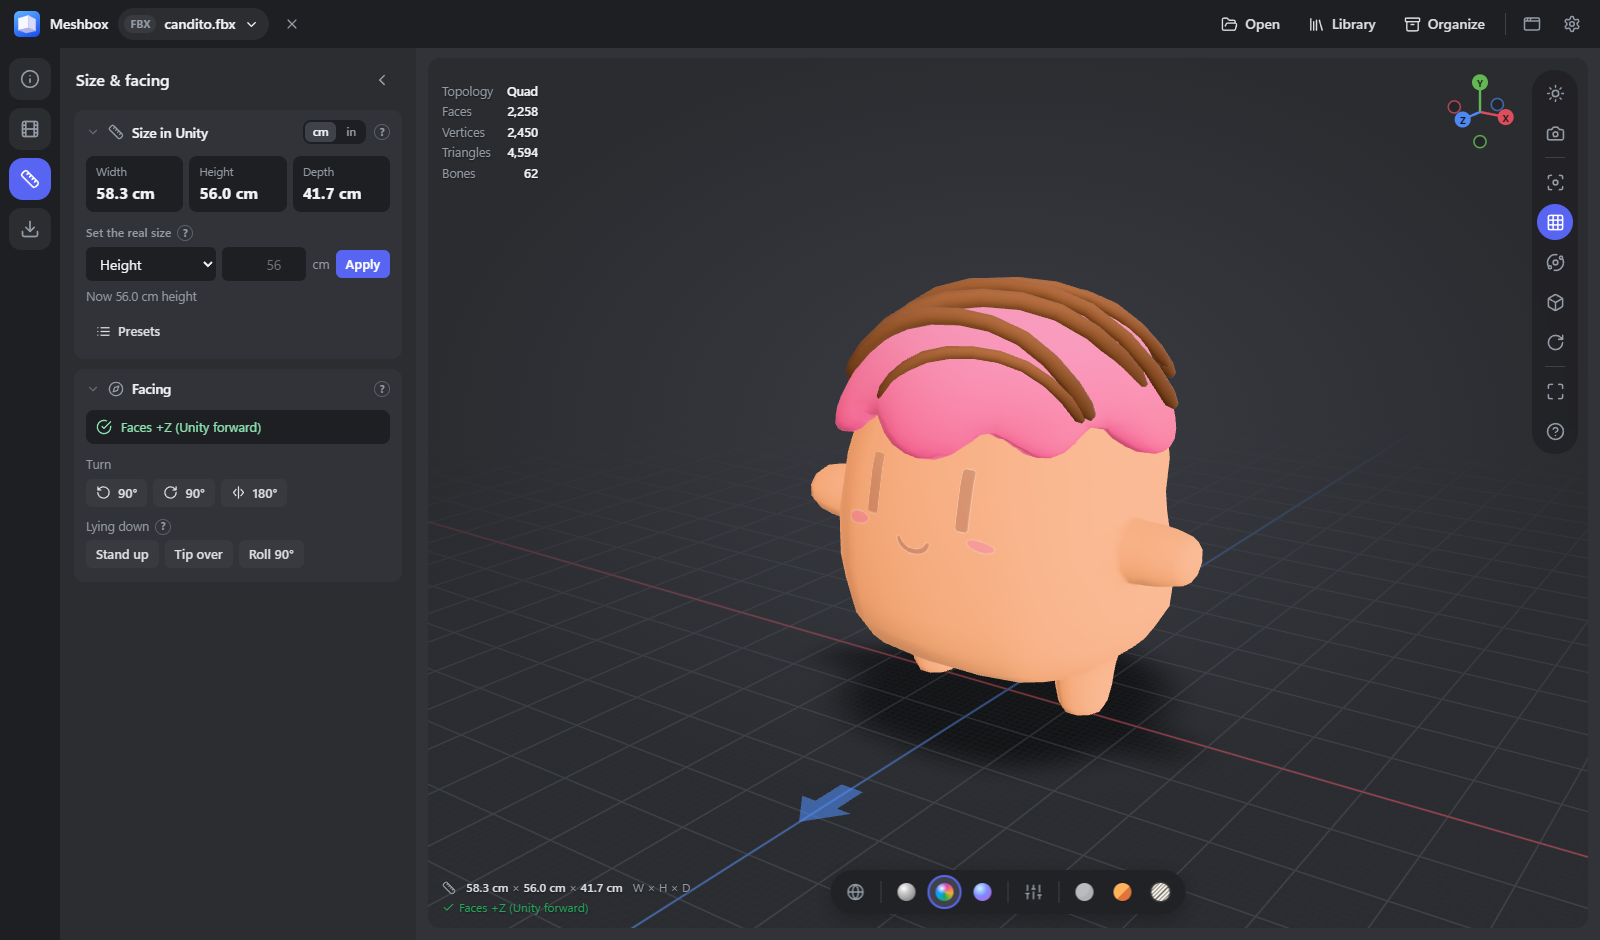
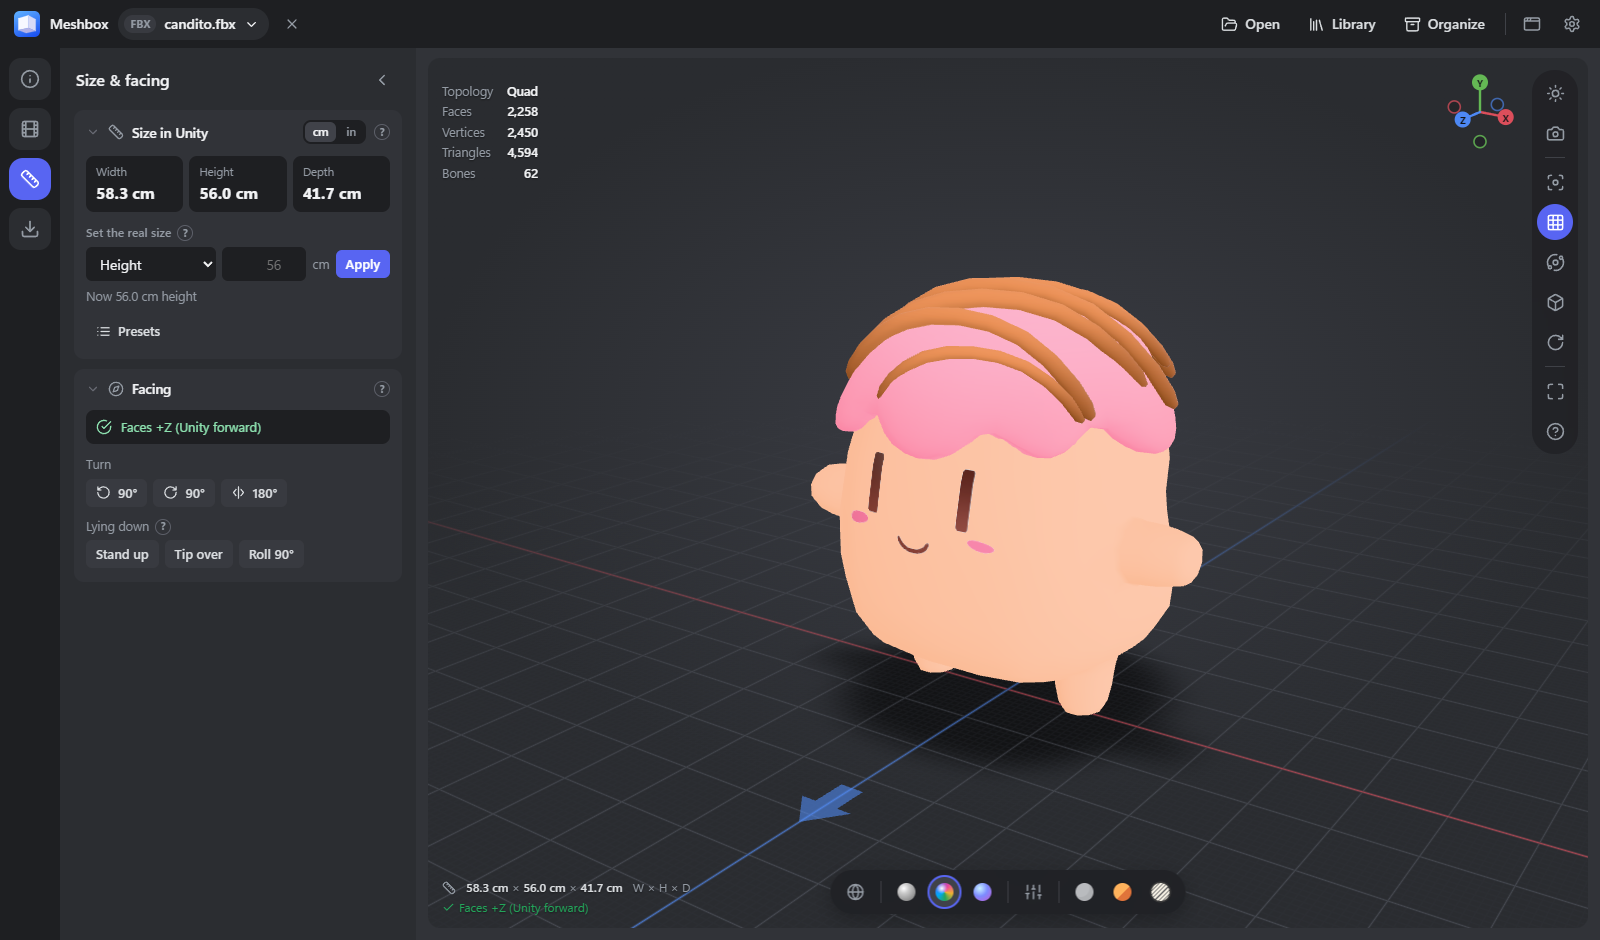
Viewer: read FBX/OBJ alpha, roughness and emission like Blender and Unity
- Blender's FBX exporter links the base color image a second time as the
  alpha texture; three.js read that from the green channel, so dark parts
  (eyes) turned see-through. The duplicate is dropped (the base color alpha
  already applies), and a separate RGBA alpha image is read from A.
- Each alpha material is sorted by what its image holds: opaque (alpha link
  ignored), cut-out (alpha test 0.5, only the anti-aliased rim blends) or
  real soft alpha (blended). Opacity factors (glass) stay blended. glTF/VRM
  keep their own alpha modes.
- FBX roughness = 1 - sqrt(Shininess) / 10: what Blender writes and Unity
  reads (a Blender roughness of 0.5 used to show as 0.27). Other formats use
  a proper Phong-exponent to perceptual-roughness conversion.
- A texture on FBX EmissiveColor replaces the (black) color, as in Blender
  and Unity, when EmissiveFactor is above 0.
- README preview retaken with the fix.

Changed region(s): [[0.5, 0.2777, 0.75, 0.7713]]

diff --git a/src/web/js/viewer/materials.js b/src/web/js/viewer/materials.js
@@ -27,8 +27,98 @@ function copyCommon(dst, src, keys = COPY_KEYS) {
     else dst[k] = v;
   }
   if (src.color && dst.color) dst.color.copy(src.color);
+  if (dst.alphaMap && src.userData.alphaMapChannel === 'a') alphaMapFromAlpha(dst);
   dst.userData.source = src;
   return dst;
+}
+
+/** three.js reads alphaMap from the green channel; an RGBA cut-out image keeps its alpha in A. */
+function alphaMapFromAlpha(mat) {
+  mat.onBeforeCompile = (shader) => {
+    shader.fragmentShader = shader.fragmentShader.replace('#include <alphamap_fragment>',
+      '#ifdef USE_ALPHAMAP\n\tdiffuseColor.a *= texture2D( alphaMap, vAlphaMapUv ).a;\n#endif');
+  };
+  mat.customProgramCacheKey = () => 'alphaMapA';
+}
+
+// ---------------------------------------------------------------- legacy (FBX/OBJ/DAE/3DS) alpha
+// Those formats only say "this image drives transparency", never how: Blender's FBX exporter links the
+// base color image a second time as the alpha texture, which three.js would read from the green channel
+// (dark eyes turn see-through), and every alpha link becomes a blended material. Here each one is
+// sorted by what its image really holds: no transparency (opaque), a cut-out (alpha test at 0.5 like
+// Blender's "Alpha > 0.5" or Unity's Cutout, only the anti-aliased rim blends) or real see-through alpha.
+
+/** Alpha content of an image: 'none' | 'cutout' | 'soft', or null while it has not loaded. */
+function alphaKind(texture, channel, cache) {
+  const img = texture?.source?.data;
+  const w0 = img?.naturalWidth || img?.width || 0, h0 = img?.naturalHeight || img?.height || 0;
+  if (!w0 || !h0 || img.complete === false) return null;
+  const key = (img.currentSrc || img.src || texture.source.uuid) + '|' + channel;
+  if (cache.has(key)) return cache.get(key);
+  let kind = null;
+  try {
+    let data;
+    if (img.data && img.data.length === w0 * h0 * 4) data = img.data;            // DataTexture (TGA/PSD/TIFF)
+    else {
+      const s = Math.min(1, 512 / Math.max(w0, h0));
+      const w = Math.max(1, Math.round(w0 * s)), h = Math.max(1, Math.round(h0 * s));
+      const c = document.createElement('canvas');
+      c.width = w; c.height = h;
+      const g = c.getContext('2d', { willReadFrequently: true });
+      g.imageSmoothingEnabled = false;   // real texels: averaging would invent soft edges
+      g.drawImage(img, 0, 0, w, h);
+      data = g.getImageData(0, 0, w, h).data;
+    }
+    const off = channel === 'a' ? 3 : 1;
+    let visible = 0, soft = 0, clear = 0;
+    for (let i = off; i < data.length; i += 4) {
+      const a = data[i];
+      if (a < 8) clear++;
+      else { visible++; if (a < 248) soft++; }
+    }
+    kind = !clear && soft / Math.max(1, visible) < 0.002 ? 'none' : soft / Math.max(1, visible) <= 0.4 ? 'cutout' : 'soft';
+  } catch { /* unreadable image: leave the material as it is */ }
+  cache.set(key, kind);
+  return kind;
+}
+
+const sameImage = (a, b) => a && b && (a.source === b.source || a.source?.data === b.source?.data
+  || (!!(a.source?.data?.src) && a.source.data.src === b.source?.data?.src));
+const hasAlphaChannel = (t, cache) => { const k = alphaKind(t, 'a', cache); return k && k !== 'none'; };
+
+/**
+ * Call once per loaded model (legacy formats, textures loaded). `fbx`: roughness from Shininess the way
+ * Blender writes it and Unity reads it, and emission textures used as FBX defines them.
+ */
+export function fixLegacyMaterials(root, { fbx = false } = {}) {
+  const cache = new Map();
+  const done = new Set();
+  root.traverse((o) => {
+    for (const m of (Array.isArray(o.material) ? o.material : [o.material])) {
+      if (!m || done.has(m)) continue;
+      done.add(m);
+      if (fbx) m.userData.fbxShininess = true;
+      // A texture on EmissiveColor replaces the color (FBX, Blender and Unity agree); FBXLoader keeps it black.
+      if (fbx && m.emissiveMap && m.emissive && m.emissive.getHex() === 0 && (m.emissiveIntensity ?? 1) > 0) m.emissive.set(0xffffff);
+      if (!m.map && !m.alphaMap) continue;
+      if (!(m.transparent || m.alphaMap || m.alphaTest > 0)) continue;
+      // The same picture as the base color: its alpha is already applied through `map`.
+      if (m.alphaMap && sameImage(m.alphaMap, m.map)) m.alphaMap = null;
+      let kind;
+      if (m.alphaMap) {
+        const a = hasAlphaChannel(m.alphaMap, cache);
+        if (a) m.userData.alphaMapChannel = 'a';
+        kind = alphaKind(m.alphaMap, a ? 'a' : 'g', cache);
+        if (m.map && kind) { const k2 = alphaKind(m.map, 'a', cache); if (k2 === 'soft' || (k2 === 'cutout' && kind === 'none')) kind = k2; }
+      } else kind = alphaKind(m.map, 'a', cache);
+      if (!kind || m.opacity < 1) { m.needsUpdate = true; continue; }   // a see-through factor stays blended
+      if (kind === 'none') { m.transparent = false; m.alphaTest = 0; }
+      else if (kind === 'cutout') { m.transparent = true; m.alphaTest = 0.5; m.depthWrite = true; }
+      else m.transparent = true;
+      m.userData.alphaKind = kind;
+      m.needsUpdate = true;
+    }
+  });
 }
 
 /** Phong/Lambert (FBX, OBJ) → MeshStandardMaterial, so image based lighting applies. */
@@ -37,10 +127,11 @@ export function toPBR(m) {
   const std = copyCommon(new THREE.MeshStandardMaterial(), m);
   let roughness = 0.65;
   if (m.isMeshPhongMaterial) {
-    const s = m.shininess ?? 30;
-    // Blender's FBX exporter writes shininess as (1 - roughness) * 10; other DCCs use Phong exponents.
-    roughness = s <= 10.5 ? 1 - s / 10 : Math.sqrt(2 / (s + 2));
-    roughness = Math.min(1, Math.max(0.08, roughness));
+    const s = Math.max(0, m.shininess ?? 30);
+    // FBX: Blender writes Shininess = ((1 - roughness) × 10)² and Unity reads smoothness = √(Shininess / 100),
+    // so roughness = 1 - √Shininess / 10 matches both. Other formats: a Phong exponent → perceptual roughness.
+    roughness = m.userData.fbxShininess ? 1 - Math.sqrt(Math.min(s, 100)) / 10 : Math.pow(2 / (s + 2), 0.25);
+    roughness = Math.min(1, Math.max(0.04, roughness));
     if (m.specularMap) std.roughnessMap = null;
   }
   std.roughness = roughness;

diff --git a/src/web/js/viewer/loaders.js b/src/web/js/viewer/loaders.js
@@ -15,6 +15,7 @@ import { USDZLoader } from 'three/examples/jsm/loaders/USDZLoader.js';
 import { TGALoader } from 'three/examples/jsm/loaders/TGALoader.js';
 import { TIFFLoader } from 'three/examples/jsm/loaders/TIFFLoader.js';
 import { fileUrl, urlToPath, searchUrl, call, basename } from '../host.js';
+import { fixLegacyMaterials } from './materials.js';
 
 export const MODEL_EXTS = ['.fbx', '.glb', '.gltf', '.vrm', '.obj', '.stl', '.ply', '.dae', '.3ds', '.3mf', '.usdz', '.blend'];
 const IMAGE_RE = /\.(png|jpe?g|tga|bmp|gif|webp|tiff?|psd|dds|exr|hdr|ktx2)(\?|$)/i;
@@ -300,6 +301,8 @@ export async function loadModel(path, { renderer, onProgress, signal, displayNam
     await Promise.race([new Promise((r) => { idleResolve = r; }), new Promise((r) => setTimeout(r, 45000))]);
   }
 
+  // FBX/OBJ/Collada/3DS never say how a texture's alpha should be used: work it out from the images.
+  if (!/^\.(glb|gltf|vrm|usdz|3mf|stl|ply)$/.test(ext)) fixLegacyMaterials(result.root, { fbx: ext === '.fbx' });
   result.textures = await textureReport(result.root, seen);
   result.displayName = displayName || basename(path);
   return result;

diff --git a/README.md b/README.md
@@ -48,6 +48,11 @@ Meshbox → Always.
   elsewhere), perspective / ortho
   (`O`, numpad `5`), Blender-style numpad views `1 3 7`, turntable (`T`), full screen (`F11`), the XYZ
   gizmo is clickable.
+- **Materials** from FBX, OBJ, Collada and 3DS are read the way Blender and Unity read them: transparency
+  comes from what the texture really holds (cut-outs like eyes, lashes and decals stay solid with clean
+  edges, see-through glass stays see-through, an alpha link on an opaque image is ignored), roughness
+  comes from FBX shininess with Unity's formula, and emission textures glow when their strength is
+  above 0.
 - **Topology** (top left): Faces, Vertices (true polygon counts for FBX and .blend), triangles, bones.
 - **Animations**: clip list, play/pause, scrub, speed, loop, rest pose. *Load animations or poses…*
   adds clips from other files: same bone names play directly (Unity-style `Model@Clip.fbx` files next
